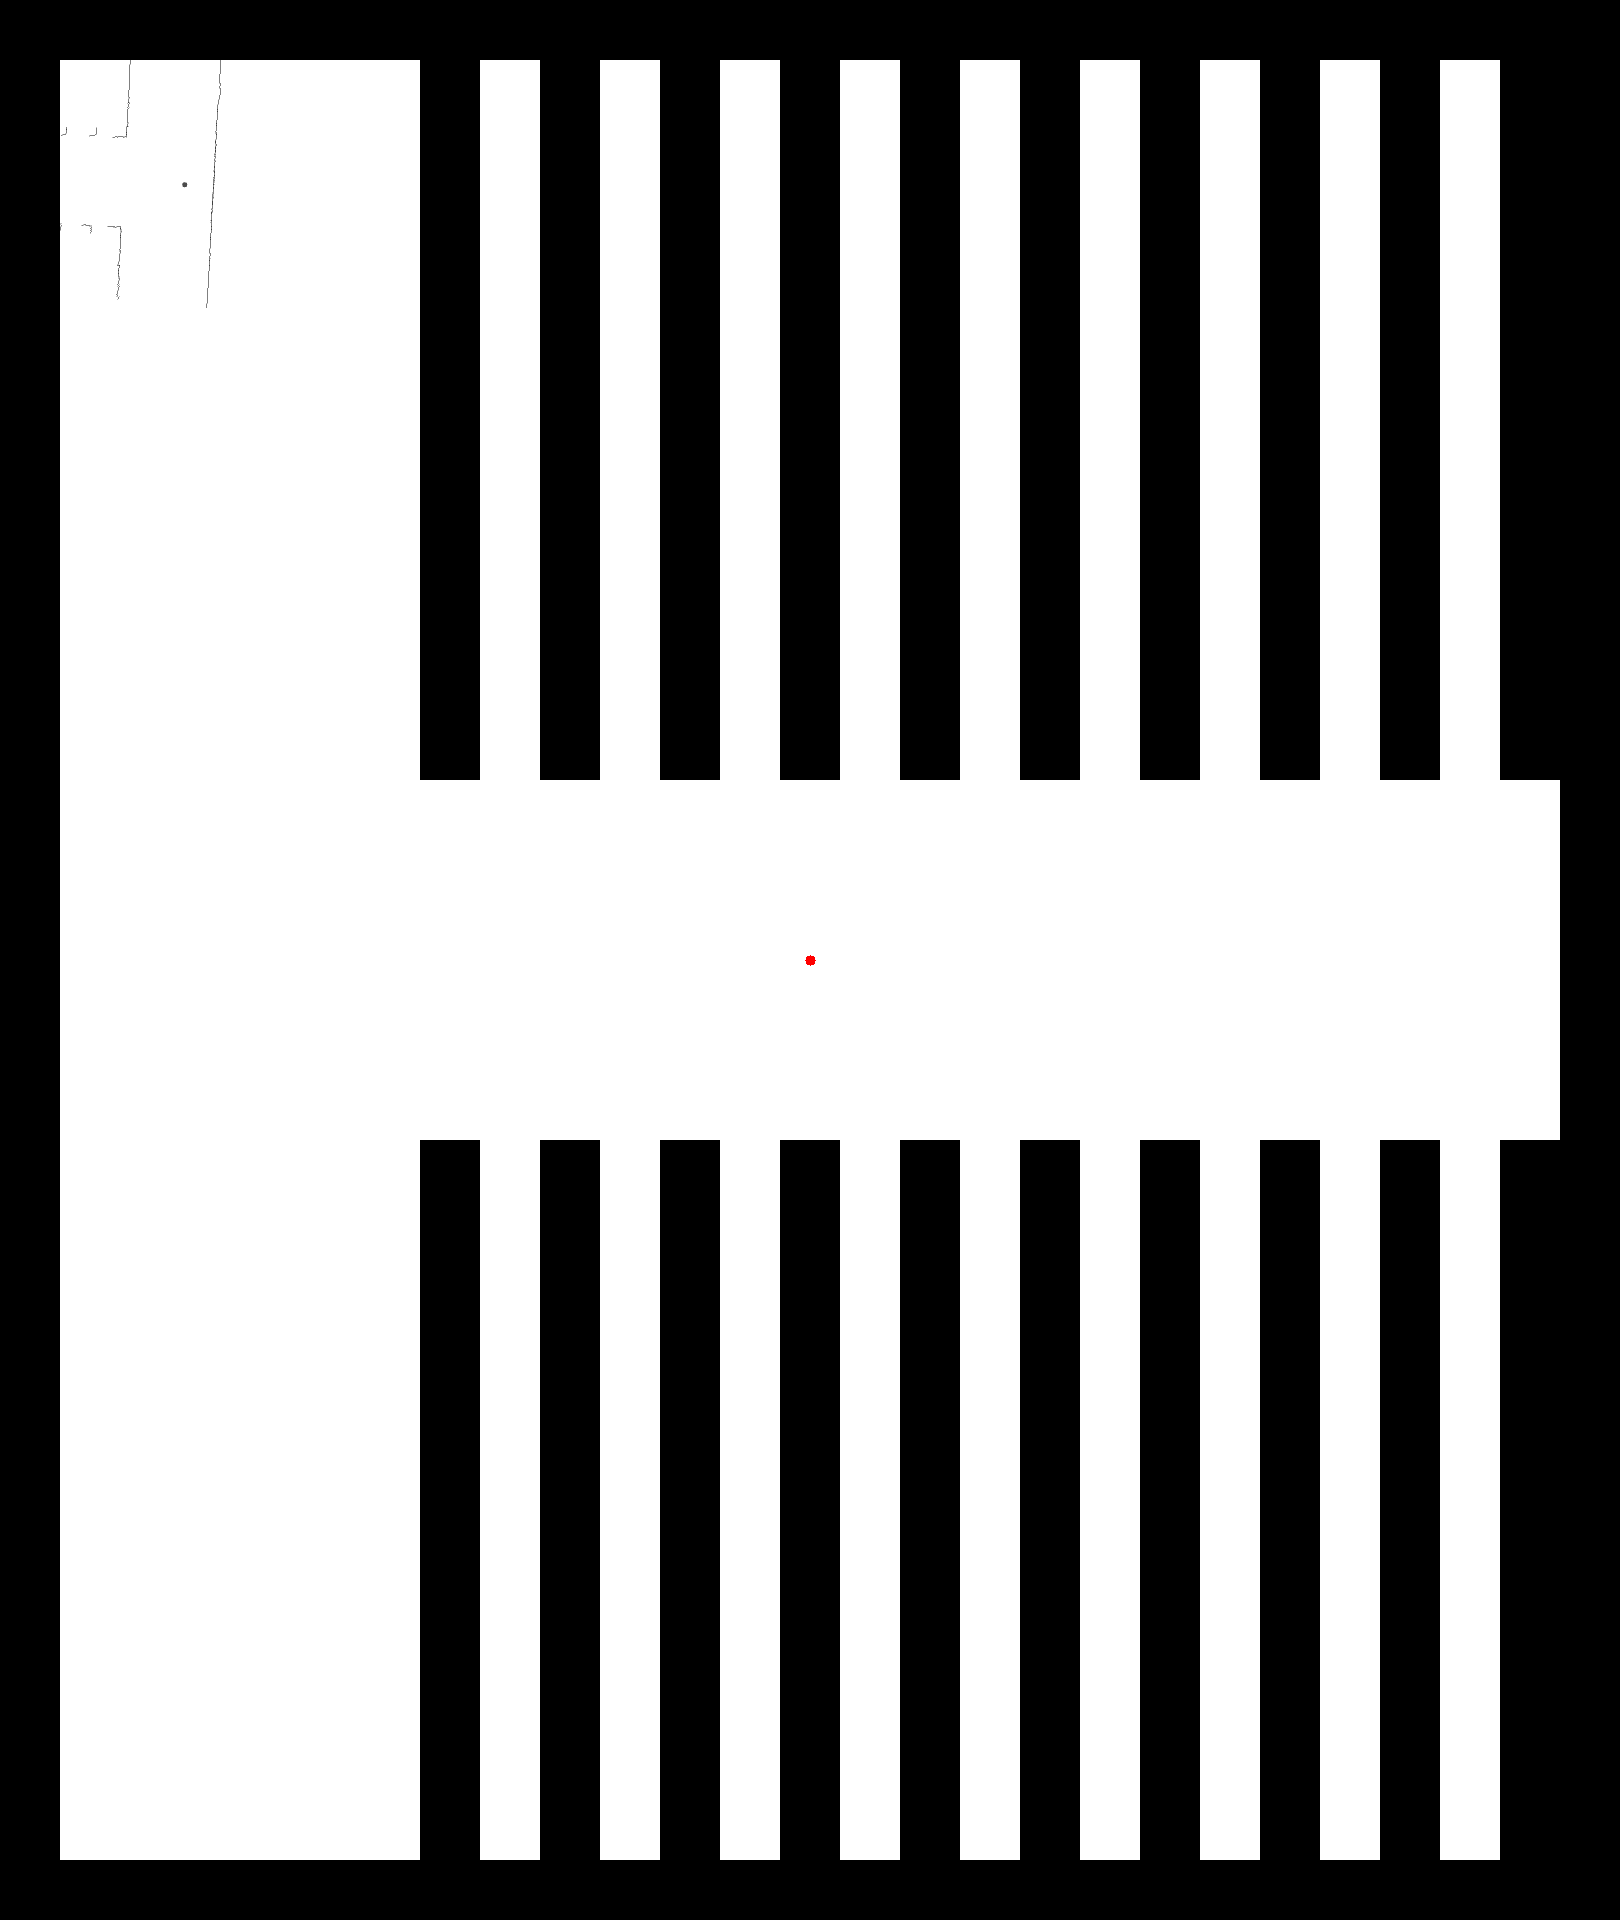
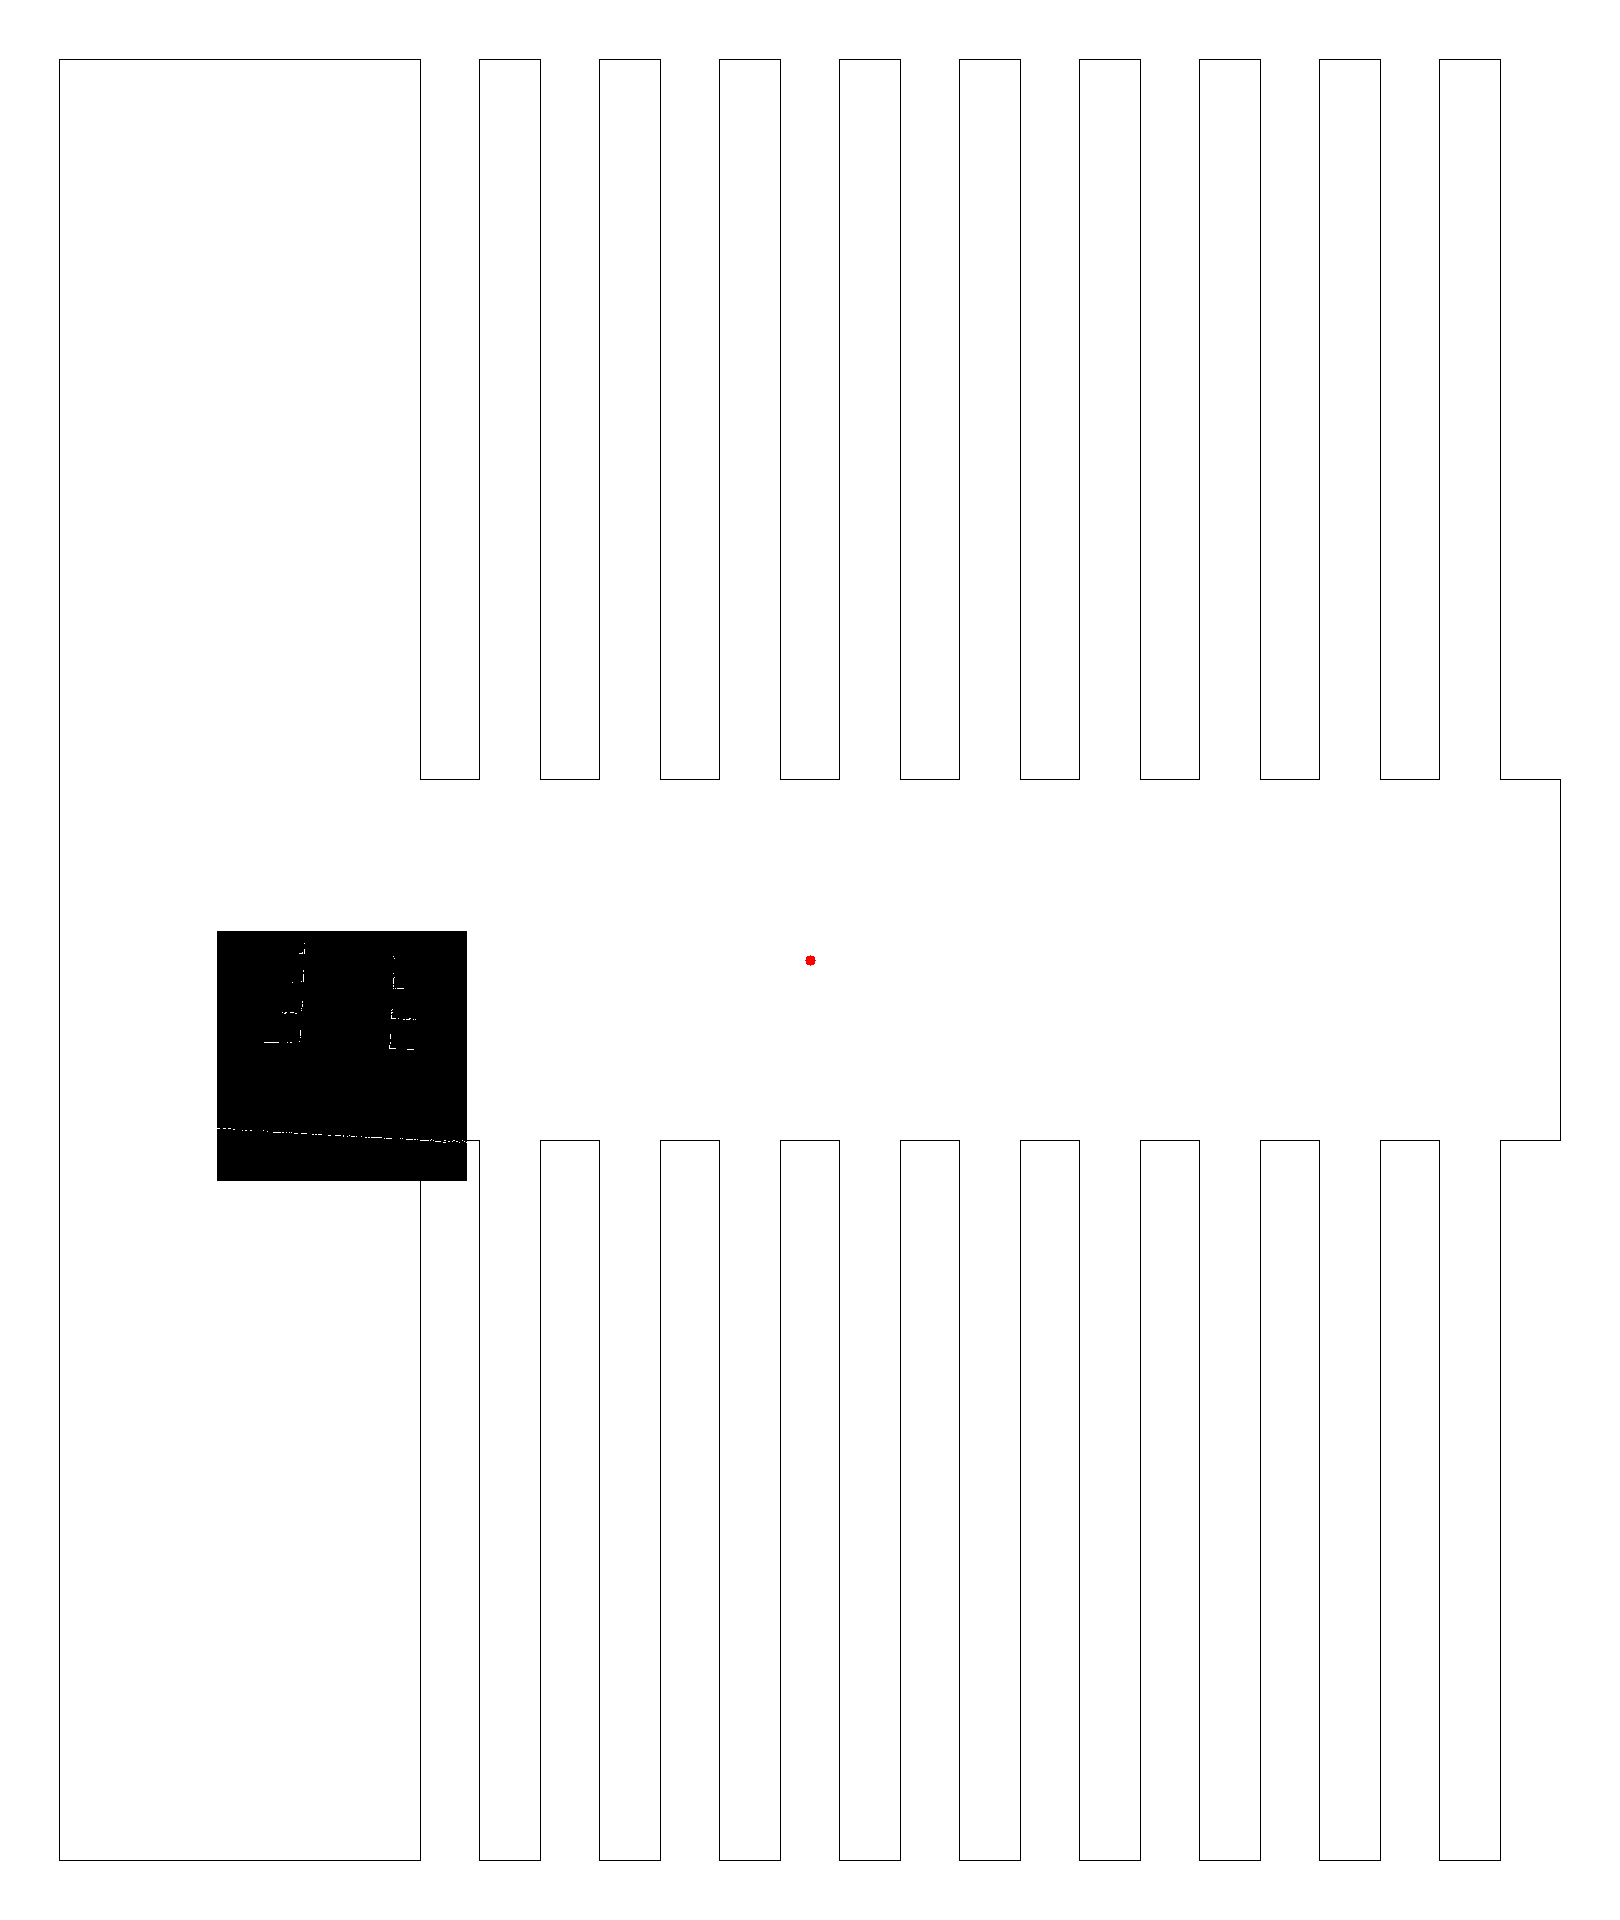
[broken] matches angles

diff --git a/containers/bot/localization.py b/containers/bot/localization.py
@@ -216,8 +216,9 @@ class MarkovClusteringLocalization:
         # Convert the graph_lines_visualization to grayscale
         graph_lines_gray = cv2.cvtColor(graph_lines_image, cv2.COLOR_BGR2GRAY)
 
-        # Invert the colors of the graph_lines_visualization
-        graph_lines_gray_inverted = graph_lines_gray
+        # Create binary masks where black pixels are 1 and others are 0
+        map_mask = (map_image_gray == 0).astype(np.uint8)
+        graph_mask = (graph_lines_gray == 0).astype(np.uint8)
 
         # Initialize variables for the best match
         best_match = None
@@ -227,25 +228,29 @@ class MarkovClusteringLocalization:
         best_top_left = None
 
         # Iterate through scales and rotations
-        for scale in np.linspace(0.5, 10, 100):  # Test scales from 0.5x to 2.0x
-            for angle in range(0, 360, 15):  # Test rotations in 15-degree increments
-                # Scale the graph_lines_visualization
-                scaled_image = cv2.resize(graph_lines_gray_inverted, None, fx=scale, fy=scale, interpolation=cv2.INTER_LINEAR)
+        for scale in np.linspace(0.5, 3.0, 50):  # Test scales from 0.5x to 2.0x
+            for angle in range(0, 360, 360):  # Test rotations in 15-degree increments
+                # Scale the graph_lines_visualization mask
+                scaled_mask = cv2.resize(graph_mask, None, fx=scale, fy=scale, interpolation=cv2.INTER_NEAREST)
 
-                # Rotate the scaled image
-                h, w = scaled_image.shape
+                # Rotate the scaled mask
+                h, w = scaled_mask.shape
                 center = (w // 2, h // 2)
                 rotation_matrix = cv2.getRotationMatrix2D(center, angle, 1.0)
-                rotated_image = cv2.warpAffine(scaled_image, rotation_matrix, (w, h))
+                rotated_mask = cv2.warpAffine(scaled_mask, rotation_matrix, (w, h))
 
-                # Perform template matching
-                result = cv2.matchTemplate(map_image_gray, rotated_image, cv2.TM_CCOEFF_NORMED)
+                # Check if the rotated mask is smaller than the map mask
+                if rotated_mask.shape[0] > map_mask.shape[0] or rotated_mask.shape[1] > map_mask.shape[1]:
+                    continue  # Skip this iteration if the template is too large
+
+                # Perform template matching using the binary masks
+                result = cv2.matchTemplate(map_mask, rotated_mask, cv2.TM_CCOEFF_NORMED)
                 _, max_val, _, max_loc = cv2.minMaxLoc(result)
 
                 # Update the best match if the current one is better
                 if max_val > best_val:
                     best_val = max_val
-                    best_match = rotated_image
+                    best_match = rotated_mask
                     best_scale = scale
                     best_angle = angle
                     best_top_left = max_loc
@@ -260,7 +265,7 @@ class MarkovClusteringLocalization:
 
         # Overlay the best match on the map
         overlay = map_image.copy()
-        overlay[top_left[1]:top_left[1] + h, top_left[0]:top_left[0] + w] = cv2.cvtColor(best_match, cv2.COLOR_GRAY2BGR)
+        overlay[top_left[1]:top_left[1] + h, top_left[0]:top_left[0] + w] = cv2.cvtColor(best_match * 255, cv2.COLOR_GRAY2BGR)
 
         # Get the robot's position (node ID 1000)
         robot_x, robot_y = self.graph.nodes[1000]['pos']
@@ -331,7 +336,7 @@ class MarkovClusteringLocalization:
             raise ValueError("Graph has not been built yet.")
 
         # Create a blank image for visualization
-        map_image = np.zeros((500 * upscale_factor, 500 * upscale_factor, 3), dtype=np.uint8)
+        map_image = np.ones((500 * upscale_factor, 500 * upscale_factor, 3), dtype=np.uint8) * 255  # White background
 
         # Get the robot's position (node ID 1000)
         robot_x, robot_y = self.graph.nodes[1000]['pos']
@@ -350,7 +355,7 @@ class MarkovClusteringLocalization:
             y = int((-y * upscale_factor) + map_image.shape[0] // 2)
 
             # Draw the point as a filled circle
-            cv2.circle(map_image, (x, y), point_size, (255, 0, 0), -1)  # Blue dot for LiDAR points
+            cv2.circle(map_image, (x, y), point_size, (0, 0, 0), -1)  # Blue dot for LiDAR points
 
         # Save the visualization
         cv2.imwrite(output_path, map_image)
